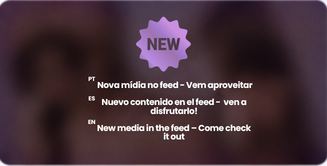
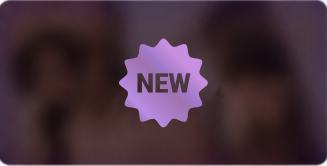
melhorias

Changed region(s): [[0.2446, 0.0904, 0.7951, 0.8434], [0.2446, 0.5723, 0.3058, 0.6024]]

diff --git a/public/css/updates2.css b/public/css/updates2.css
@@ -334,7 +334,6 @@ body {
   flex-shrink: 0;
   border-radius: 12px;
   overflow: hidden;
-  background: #1a1028;
   display: flex;
 }
 
@@ -363,6 +362,8 @@ body {
   z-index: 1;
   pointer-events: none;
   border-radius: 12px;
+  margin-right: 60px;
+  margin-top: -10px;
 }
 
 /* Grid 2 thumbnails */
